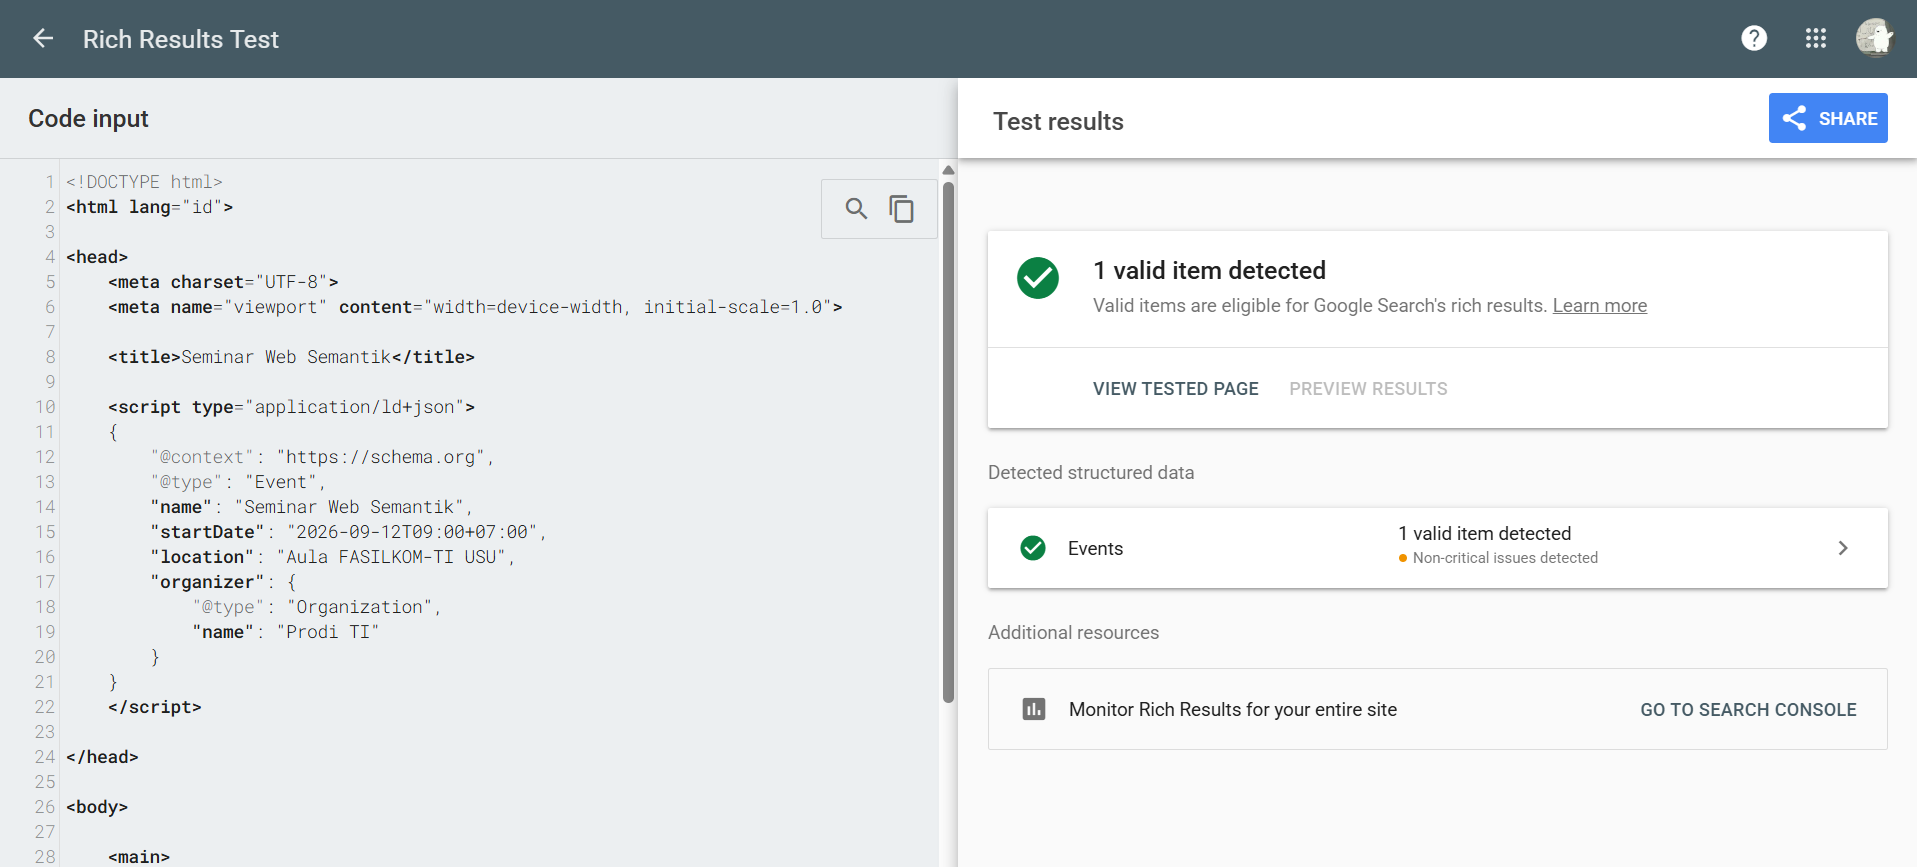
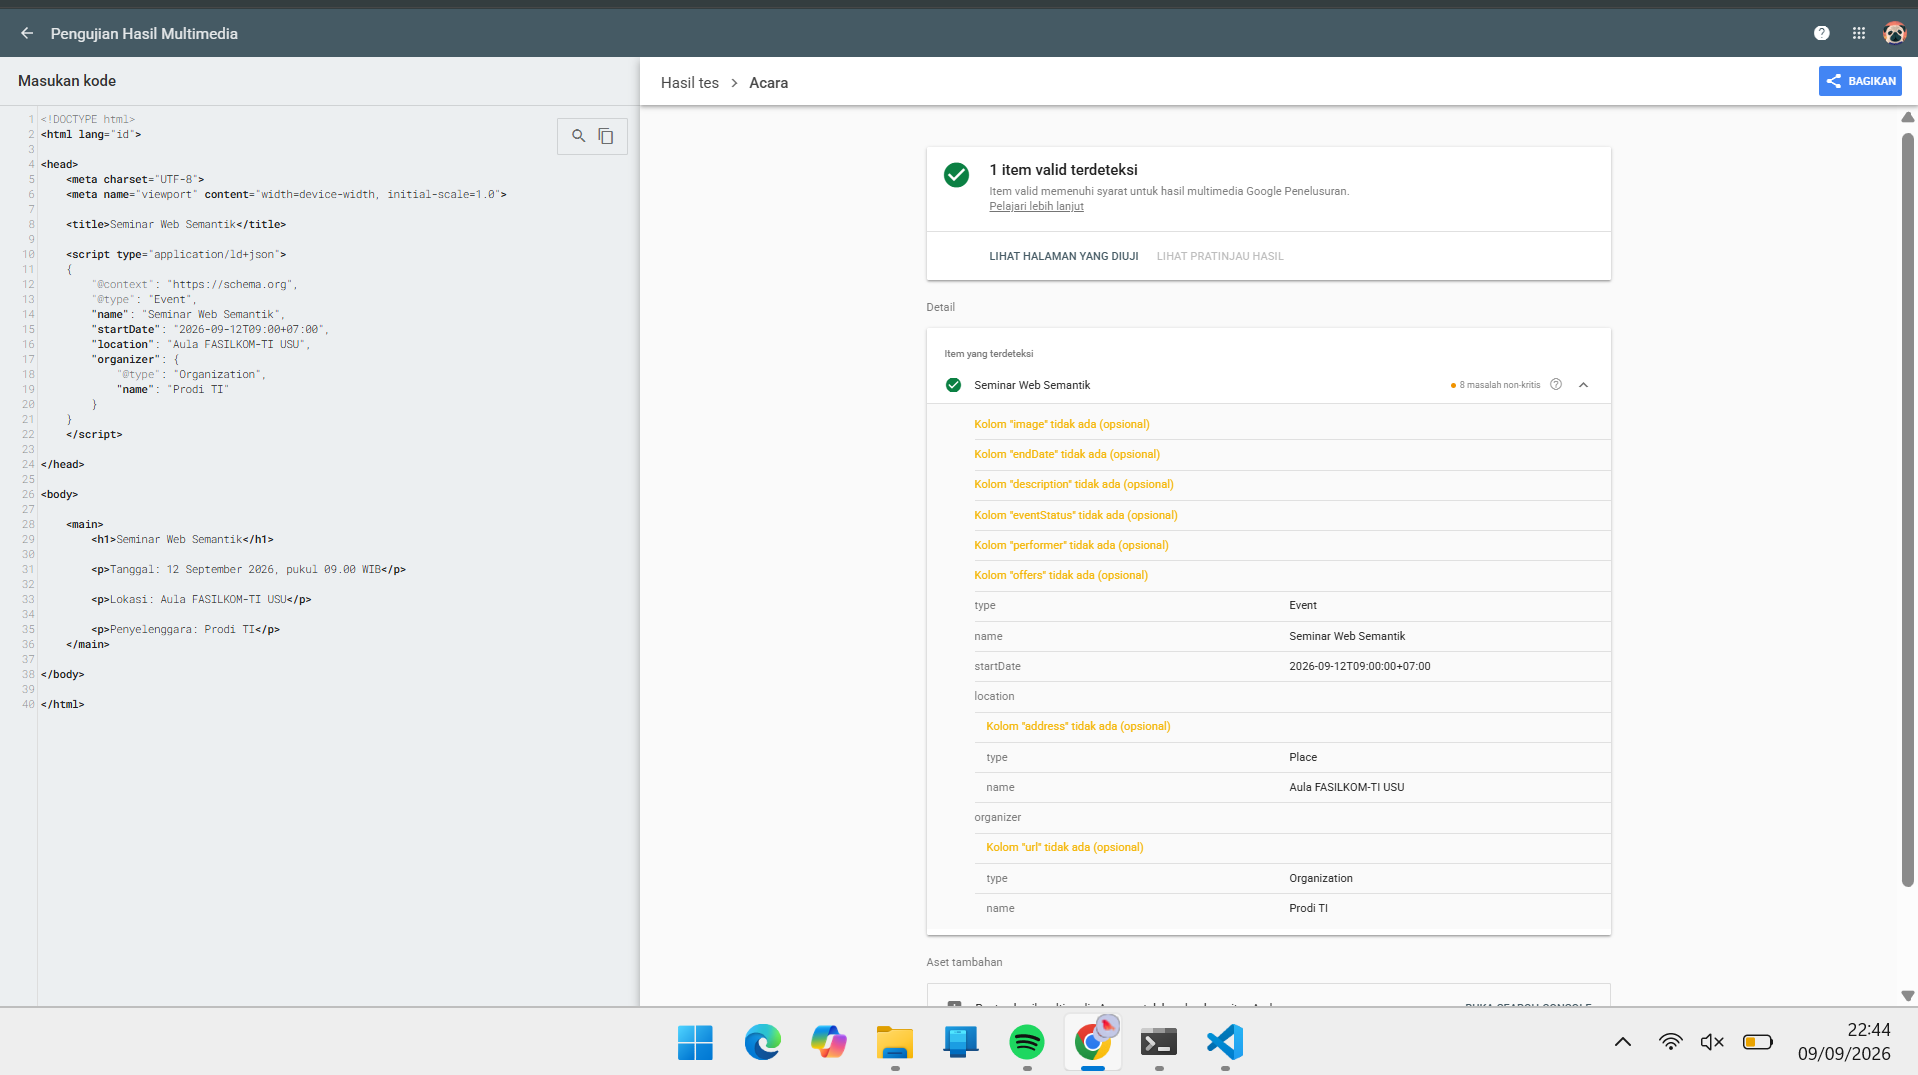
Menyelesaikan latihan pertemuan 03 - Langkah 7 - README.md

diff --git a/pertemuan-03/README.md b/pertemuan-03/README.md
@@ -10,10 +10,10 @@
 |   5 | Yabesh Day Siahaan         | 251402004 |
 
 ## Struktur Hasil
-- `profil_saya.jsonld`
-- `profil_perbaikan.jsonld`
-- `seminar.html`
-- folder `screenshots`
+- [`profil_saya.jsonld`](profil_saya.jsonld)
+- [`profil_perbaikan.jsonld`](profil_perbaikan.jsonld)
+- [`seminar.html`](seminar.html)
+- folder [`screenshots`](screenshots/)
 
 ## 1. JSON Biasa dan JSON-LD
 
@@ -280,7 +280,7 @@ Pada contoh di atas:
 Tuliskan satu baris N-Quads yang terbentuk:
 
 ```text
-<https://usu.ac.id/mhs/231401001> <http://schema.org/name> "Farel Yamotaro Hia" .
+<https://usu.ac.id/mhs/251402069> <http://schema.org/name> "Farel Yamotaro Hia" .
 ```
 
 ## 5. Hasil Validasi
@@ -310,7 +310,7 @@ Tuliskan satu baris N-Quads yang terbentuk:
 
 ## 6. Refleksi
 1. Mengapa `@context` disebut jembatan menuju makna?
-   Jawaban : @context disebut jembatan menuju makna karena @context menghubungkan istilah yang digunakan dalam JSON-LD dengan kosakata yang memiliki makna yang jelas, seperti Schema.org. Dengan adanya @context,     komputer dapat memahami bahwa istilah seperti Person, name, atau knowsAbout memiliki arti tertentu, bukan sekadar teks biasa.
+   Jawaban : @context disebut jembatan menuju makna karena @context menghubungkan istilah yang digunakan dalam JSON-LD dengan kosakata yang memiliki makna yang jelas, seperti Schema.org. Dengan adanya @context, komputer dapat memahami bahwa istilah seperti Person, name, atau knowsAbout memiliki arti tertentu, bukan sekadar teks biasa.
    
 2. Apa perbedaan fungsi Schema Markup Validator dan Rich Results Test?
    Jawaban : Schema Markup Validator digunakan untuk memeriksa apakah struktur dan penggunaan tipe serta properti dalam structured data sudah sesuai dengan kosakata Schema.org.
@@ -318,7 +318,7 @@ Tuliskan satu baris N-Quads yang terbentuk:
    Jadi, Schema Markup Validator fokus pada kebenaran markup, sedangkan Rich Results Test fokus pada kelayakan untuk fitur hasil kaya Google.
    
 3. Mengapa isi JSON-LD harus sama dengan konten yang terlihat pada halaman?
-   Jawaban : Karena JSON-LD berfungsi untuk memberikan informasi terstruktur tentang konten halaman. Jika informasi dalam JSON-LD berbeda atau tidak sesuai dengan apa yang terlihat oleh pengguna, mesin pencari      dapat menganggap data tersebut menyesatkan atau tidak merepresentasikan isi halaman dengan benar. Contohnya, jika JSON-LD menyatakan seminar berlangsung pada 12 September 2026, maka informasi tanggal yang        terlihat di halaman juga harus menunjukkan tanggal tersebut. Dengan begitu, structured data benar-benar merepresentasikan konten halaman.
+   Jawaban : Karena JSON-LD berfungsi untuk memberikan informasi terstruktur tentang konten halaman. Jika informasi dalam JSON-LD berbeda atau tidak sesuai dengan apa yang terlihat oleh pengguna, mesin pencari dapat menganggap data tersebut menyesatkan atau tidak merepresentasikan isi halaman dengan benar. Contohnya, jika JSON-LD menyatakan seminar berlangsung pada 12 September 2026, maka informasi tanggal yang terlihat di halaman juga harus menunjukkan tanggal tersebut. Dengan begitu, structured data benar-benar merepresentasikan konten halaman.
 
 ## Bukti
 ![Schema Markup Validator](screenshots/profil-schema-validator.png)
